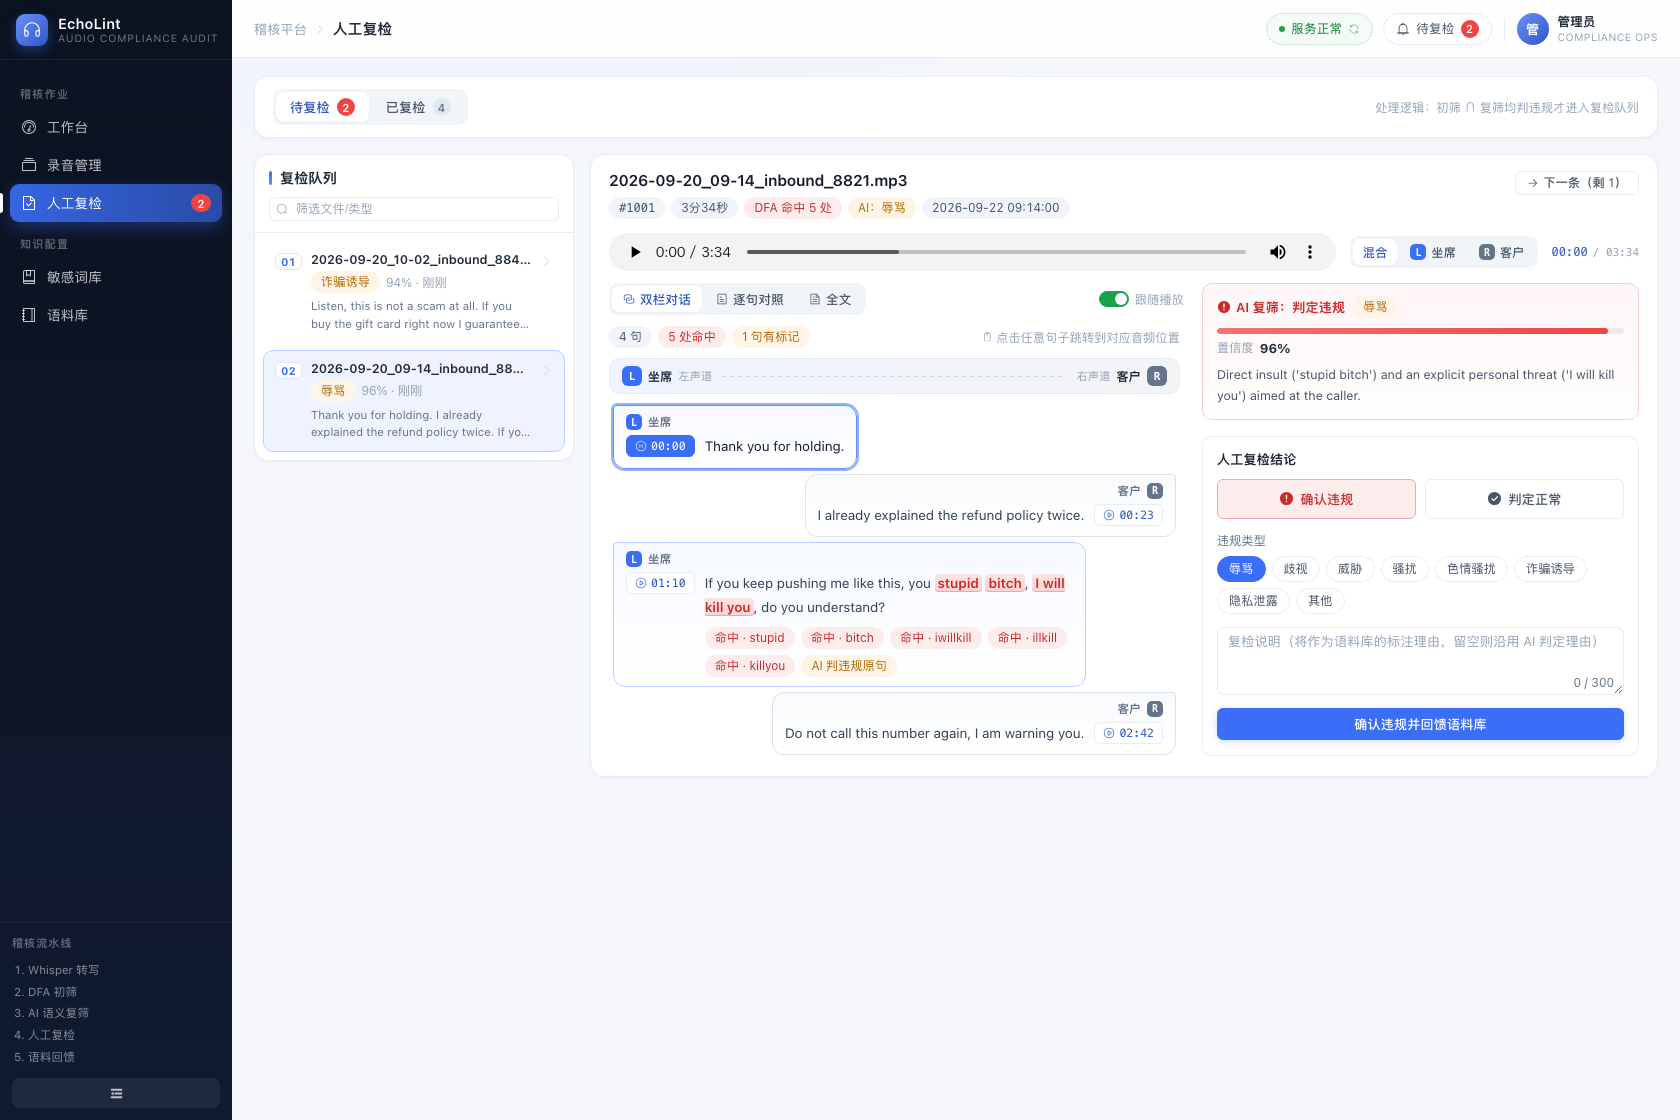
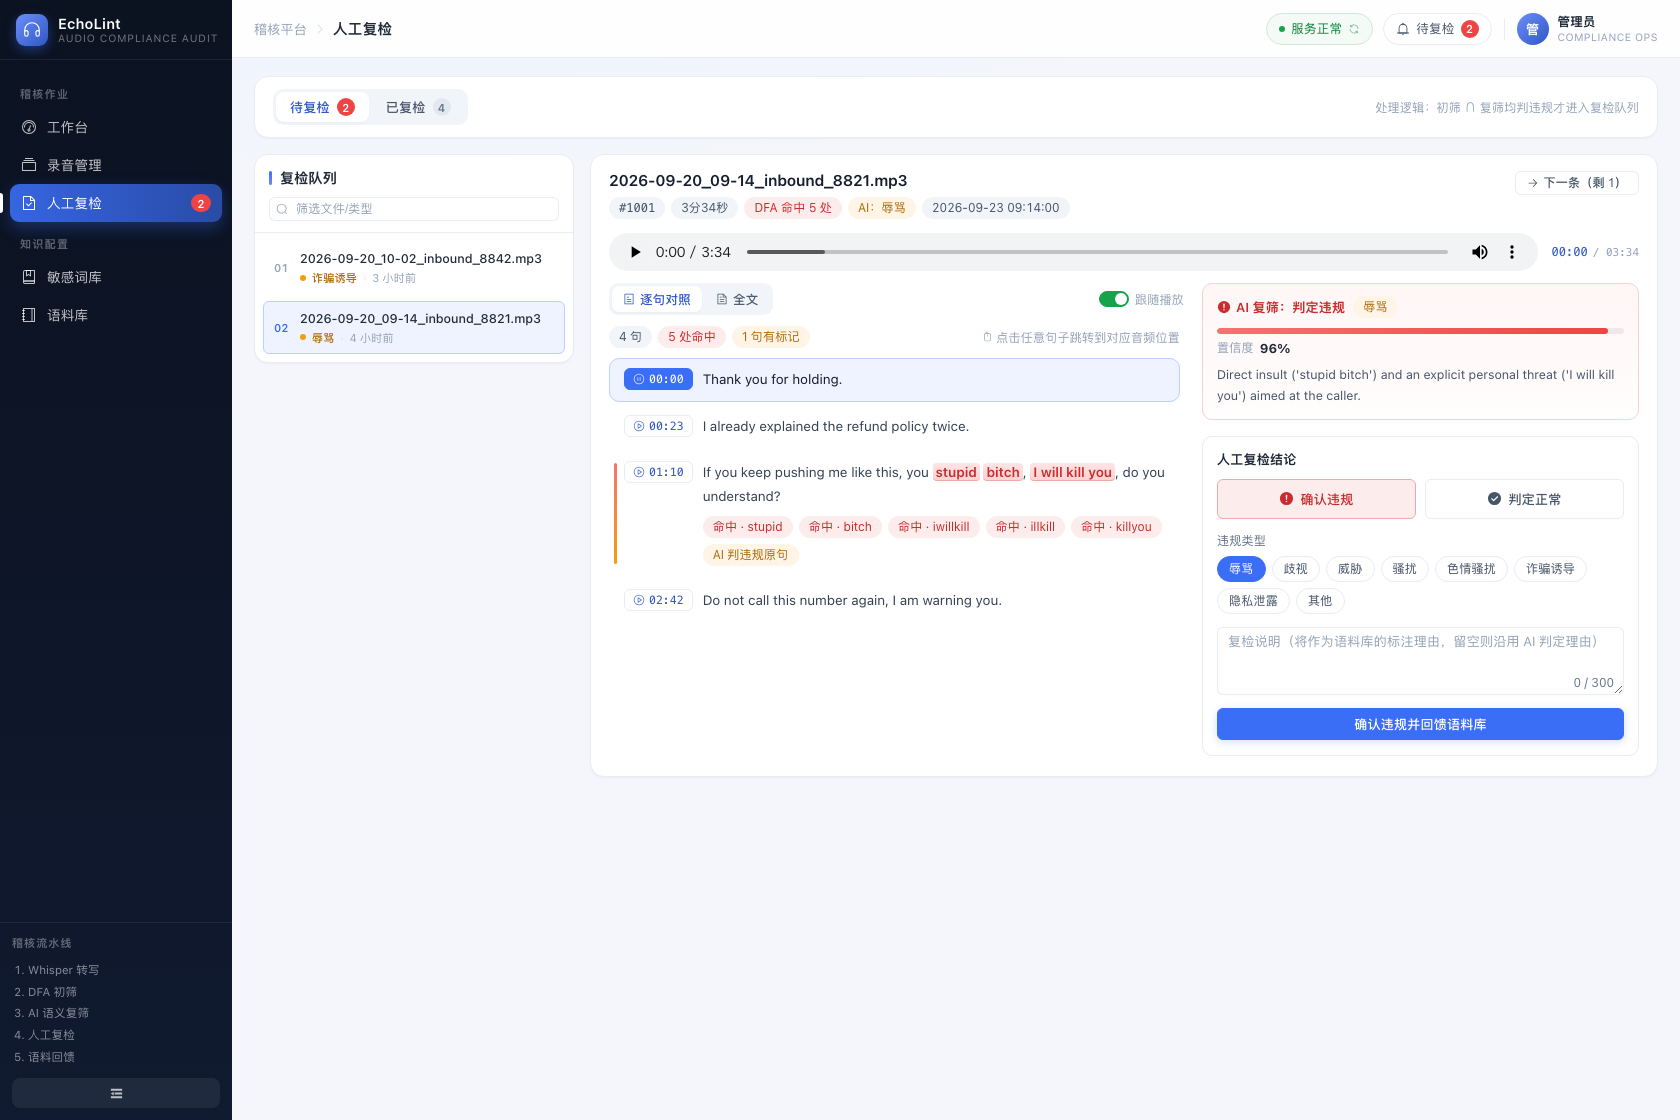
复检队列列表精简：两行紧凑布局（行高 102px→54px），摘要与置信度移入 tooltip，窄屏下队列限高避免挤占工作区

diff --git a/frontend/src/views/Review.vue b/frontend/src/views/Review.vue
@@ -36,21 +36,18 @@
             :key="r.id"
             class="queue-item"
             :class="{ on: current?.id === r.id }"
+            :title="queueTooltip(r)"
             @click="select(r)"
           >
             <span class="queue-index num">{{ String(i + 1).padStart(2, '0') }}</span>
             <span class="queue-body">
               <span class="queue-name ellipsis">{{ r.fileName }}</span>
               <span class="queue-meta">
-                <span class="chip warn">{{ r.aiViolationTypeLabel || '未分类' }}</span>
-                <span class="tiny dim num">
-                  {{ r.aiConfidence != null ? Math.round(r.aiConfidence * 100) + '%' : '—' }} ·
-                  {{ formatRelative(r.uploadTime) }}
-                </span>
+                <span class="dot" :style="{ background: 'var(--warn)' }"></span>
+                <span class="queue-type">{{ r.aiViolationTypeLabel || '未分类' }}</span>
+                <span class="queue-time num">{{ formatRelative(r.uploadTime) }}</span>
               </span>
-              <span class="queue-snippet">{{ r.transcriptSnippet || '（无转写内容）' }}</span>
             </span>
-            <el-icon class="queue-arrow" :size="13"><ArrowRight /></el-icon>
           </button>
 
           <div v-if="!filteredQueue.length" class="empty-block">
@@ -445,6 +442,14 @@ const filteredQueue = computed(() => {
 
 const remaining = computed(() => Math.max(0, pendingRows.value.length - 1))
 
+/** 队列行保持两行简洁，摘要与置信度放进原生 tooltip，信息不丢但不占版面 */
+function queueTooltip(r) {
+  const conf = r.aiConfidence != null ? Math.round(r.aiConfidence * 100) + '%' : '—'
+  const lines = [`${r.aiViolationTypeLabel || '未分类'} · 置信度 ${conf}`]
+  if (r.transcriptSnippet) lines.push(r.transcriptSnippet)
+  return lines.join('\n')
+}
+
 const dfaHits = computed(() => parseJson(current.value?.dfaHitsJson, []))
 const aiResult = computed(() => parseJson(current.value?.aiResultJson, null))
 const historyHits = computed(() => parseJson(historyDetail.value?.dfaHitsJson, []))
@@ -671,6 +676,10 @@ watch(
   .workspace {
     grid-template-columns: minmax(0, 1fr);
   }
+  /* 窄屏（含侧边栏浏览器面板）上下堆叠时，队列别把工作区挤出首屏 */
+  .queue {
+    max-height: 38vh;
+  }
 }
 
 /* 队列 */
@@ -698,17 +707,17 @@ watch(
 }
 .queue-item {
   display: flex;
-  gap: 9px;
-  align-items: flex-start;
+  gap: 8px;
+  align-items: center;
   width: 100%;
   text-align: left;
-  padding: 10px 11px;
-  border-radius: var(--r-md);
+  padding: 8px 10px;
+  border-radius: var(--r-sm);
   border: 1px solid transparent;
   background: #fff;
   font-family: inherit;
   cursor: pointer;
-  transition: all 0.16s ease;
+  transition: background 0.15s ease, border-color 0.15s ease;
 }
 .queue-item:hover {
   background: var(--ink-50);
@@ -718,47 +727,47 @@ watch(
   border-color: var(--brand-200);
 }
 .queue-index {
-  font-size: 11px;
-  font-weight: 700;
-  color: var(--brand-500);
-  background: #fff;
-  border: 1px solid var(--brand-100);
-  border-radius: 6px;
-  padding: 1px 5px;
   flex: none;
-  margin-top: 1px;
+  width: 18px;
+  font-size: 11px;
+  color: var(--ink-400);
+  font-weight: 600;
+}
+.queue-item.on .queue-index {
+  color: var(--brand-500);
 }
 .queue-body {
   flex: 1;
   min-width: 0;
   display: flex;
   flex-direction: column;
-  gap: 4px;
+  gap: 2px;
 }
 .queue-name {
   font-size: 12.5px;
-  font-weight: 600;
+  font-weight: 500;
   color: var(--ink-700);
+  line-height: 1.45;
 }
 .queue-meta {
   display: flex;
   align-items: center;
   gap: 6px;
+  font-size: 11px;
+  line-height: 1.4;
 }
-.queue-snippet {
-  font-size: 11.5px;
-  color: var(--el-text-color-secondary);
-  line-height: 1.55;
-  display: -webkit-box;
-  -webkit-line-clamp: 2;
-  -webkit-box-orient: vertical;
-  overflow: hidden;
+.queue-type {
+  color: #b06a06;
+  font-weight: 500;
 }
-.queue-arrow {
+.queue-time {
+  color: var(--el-text-color-placeholder);
+}
+.queue-time::before {
+  content: "·";
+  margin-right: 6px;
   color: var(--ink-300);
-  margin-top: 3px;
 }
-
 /* 工作区主体 */
 .work {
   padding: 16px 18px 20px;
